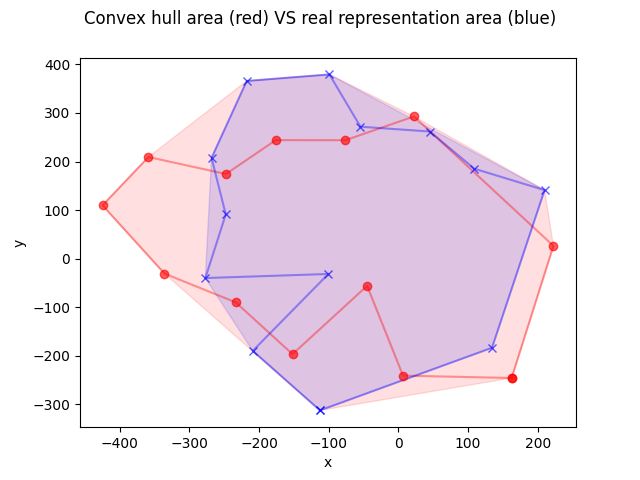
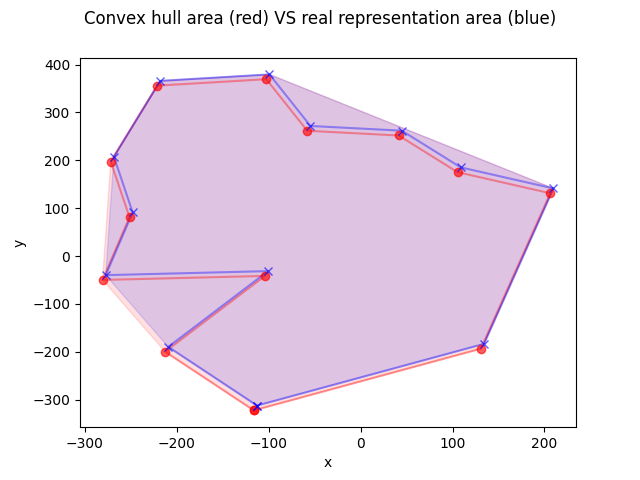
Updated metric m1 to include min

diff --git a/validation/utils/m1.py b/validation/utils/m1.py
@@ -25,16 +25,16 @@ def save_fig(dir: str):
     plt.clf()
 
 
-def plot_polygons(hull: list, real_hull: list, perceived_poly: list, real_poly: list, dir: str = None):
+def plot_polygons(hull: list, min_hull: list, perceived_poly: list, real_poly: list, dir: str = None):
     """Plot the given two polygons, in a single figure, with different colors"""
     h1_x, h1_y = extract_x_y(hull)
-    h2_x, h2_y = extract_x_y(real_hull)
+    h2_x, h2_y = extract_x_y(min_hull)
     p1_x, p1_y = extract_x_y(perceived_poly)
     p2_x, p2_y = extract_x_y(real_poly)
 
     # Figure settings
     fig = plt.figure()
-    fig.suptitle('Convex hull area (red) VS real representation area (blue)')
+    # fig.suptitle('Convex hull area (red) VS real representation area (blue)')
     plt.xlabel('x')
     plt.ylabel('y')
 
@@ -108,19 +108,33 @@ def apply_transformations(initial_representation: list, events: list) -> float:
 def apply_m1(real_representation: list, perceived_representation: list, dir: str = None) -> float:
     """Apply the metric M1 and obtain its result, between 0 and 1"""
     joint_point_set = real_representation + perceived_representation
+
     # Getting necessary hulls
     real_convex_hull = geometry.MultiPoint(real_representation).convex_hull
+    perceived_hull = geometry.MultiPoint(perceived_representation).convex_hull
     convex_hull = geometry.MultiPoint(joint_point_set).convex_hull
+
     # Getting vertices of hulls
     real_vertices = polygon_to_vertices_list(real_convex_hull)
-    hull_vertices = polygon_to_vertices_list(convex_hull)
+    perceived_vertices = polygon_to_vertices_list(perceived_hull)
+    joint_vertices = polygon_to_vertices_list(convex_hull)
 
-    plot_polygons(hull=hull_vertices,
-                  real_hull=real_vertices,
+    # Getting the min area
+    real_area = surveyor_formula(real_vertices)
+    perceived_area = surveyor_formula(perceived_vertices)
+    if real_area <= perceived_area:
+        min_area = real_area
+        min_vertices = real_vertices
+    else:
+        min_area = perceived_area
+        min_vertices = perceived_vertices
+
+    plot_polygons(hull=joint_vertices,
+                  min_hull=min_vertices,
                   perceived_poly=perceived_representation,
                   real_poly=real_representation,
                   dir=dir)
-    return surveyor_formula(real_vertices) / surveyor_formula(hull_vertices)
+    return min_area / surveyor_formula(joint_vertices)
 
 
 class TestM1(unittest.TestCase):
@@ -146,6 +160,11 @@ class TestM1(unittest.TestCase):
                 {"type": "TRANSLATION", "trigger": {"transformation": [5, 0]}},
                 {"type": "ROTATION", "trigger": {"transformation": -90}},
                 {"type": "UNIFORM_SCALE", "trigger": {"transformation": 1.6}}
+            ]
+        }]
+        self.min_scale = [{
+            "events": [
+                {"type": "UNIFORM_SCALE", "trigger": {"transformation": 0.5}}
             ]
         }]
 
@@ -181,6 +200,11 @@ class TestM1(unittest.TestCase):
             (8.0, 7.0)],
             apply_transformations(self.representation, self.transformations)),
             1)
+
+    def test_mean_perceived(self):
+        self.assertEqual(apply_m1(self.representation,
+                                  apply_transformations(self.representation, self.min_scale)),
+                         0.25)
 
 
 if __name__ == '__main__':
